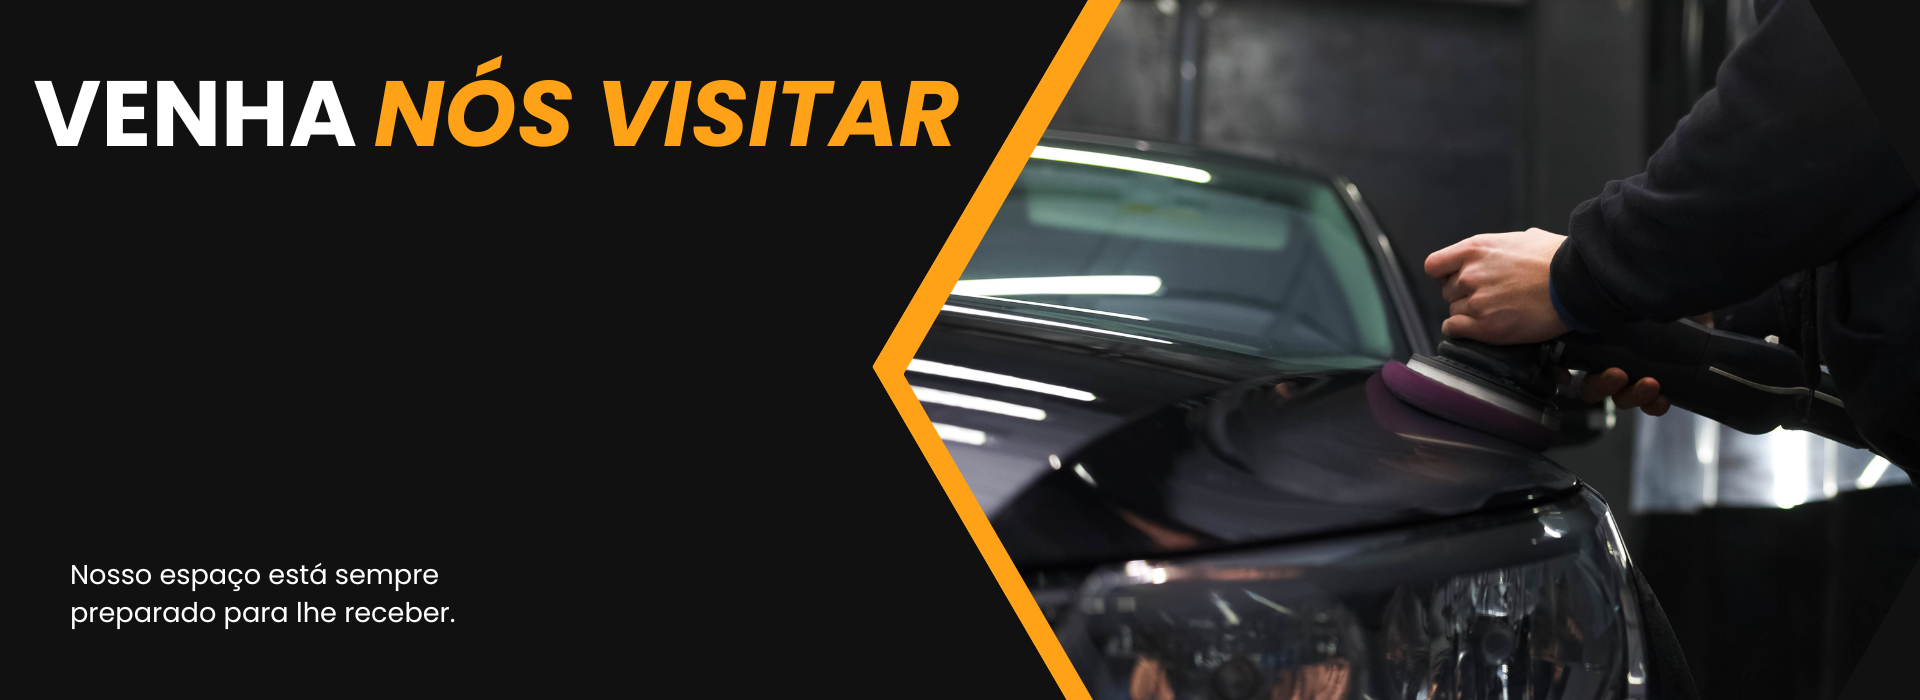
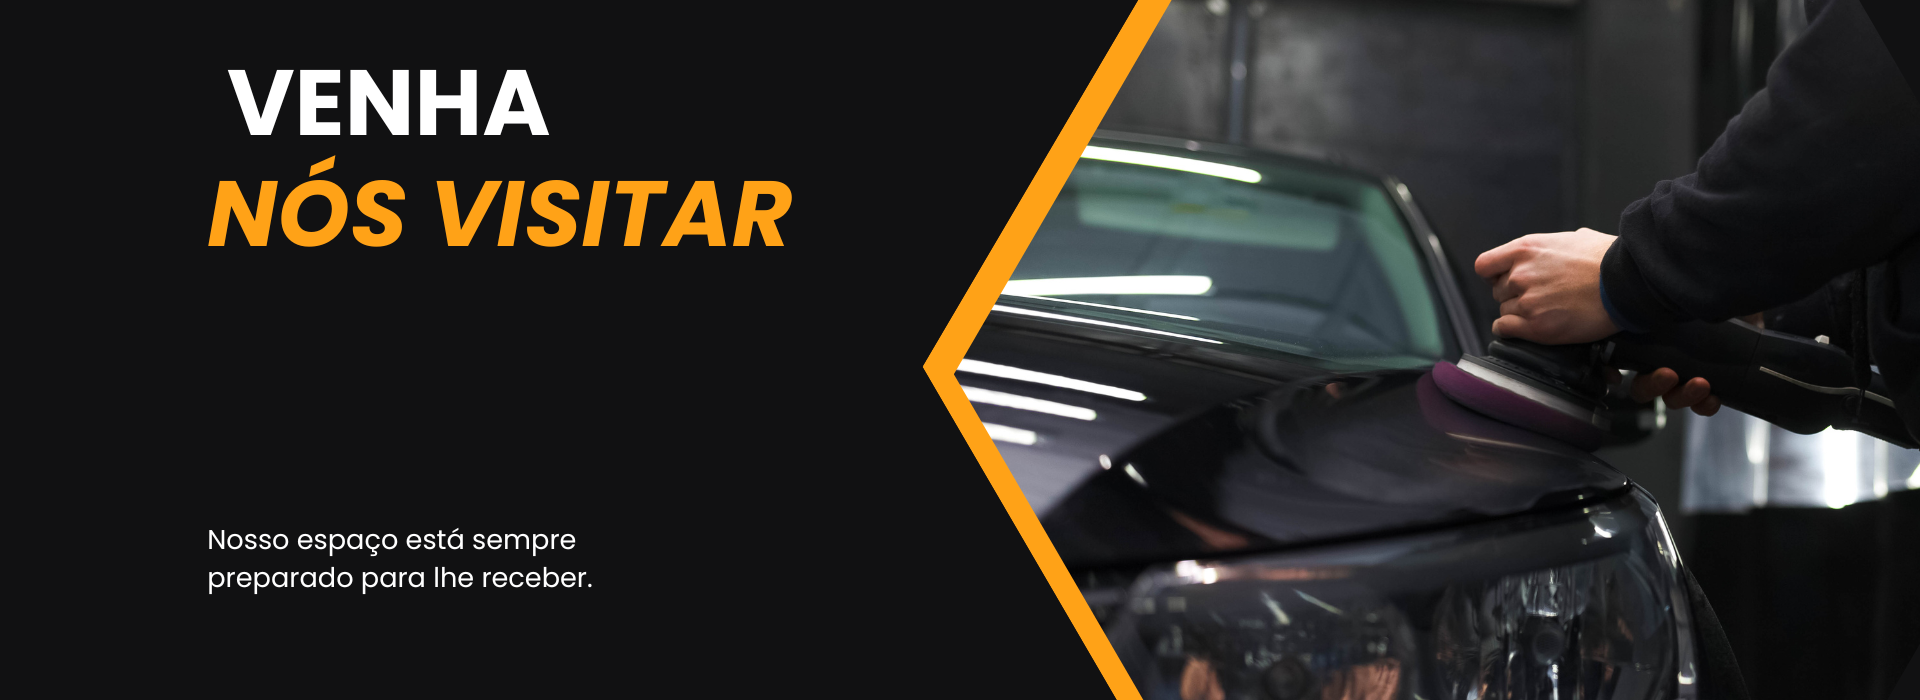
CSS das img

diff --git a/style.css b/style.css
@@ -328,7 +328,7 @@ body {
 }
 
 .imagem__local{
-    width: 70%;
+    width: 50%;
     margin-bottom: 1em;
 }
 
